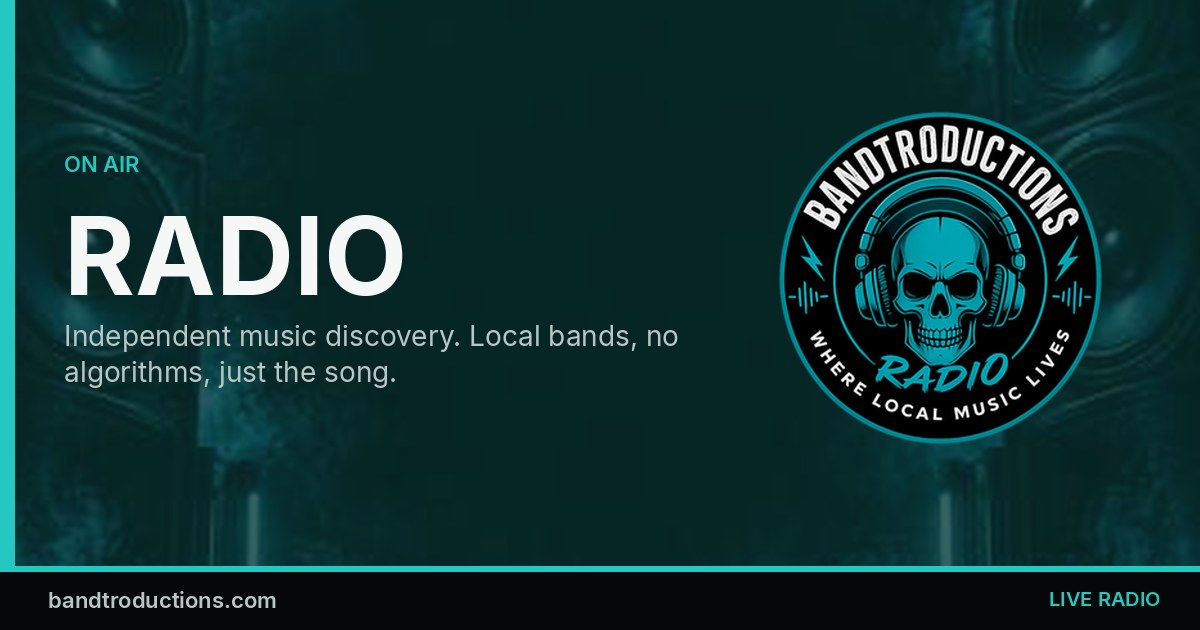
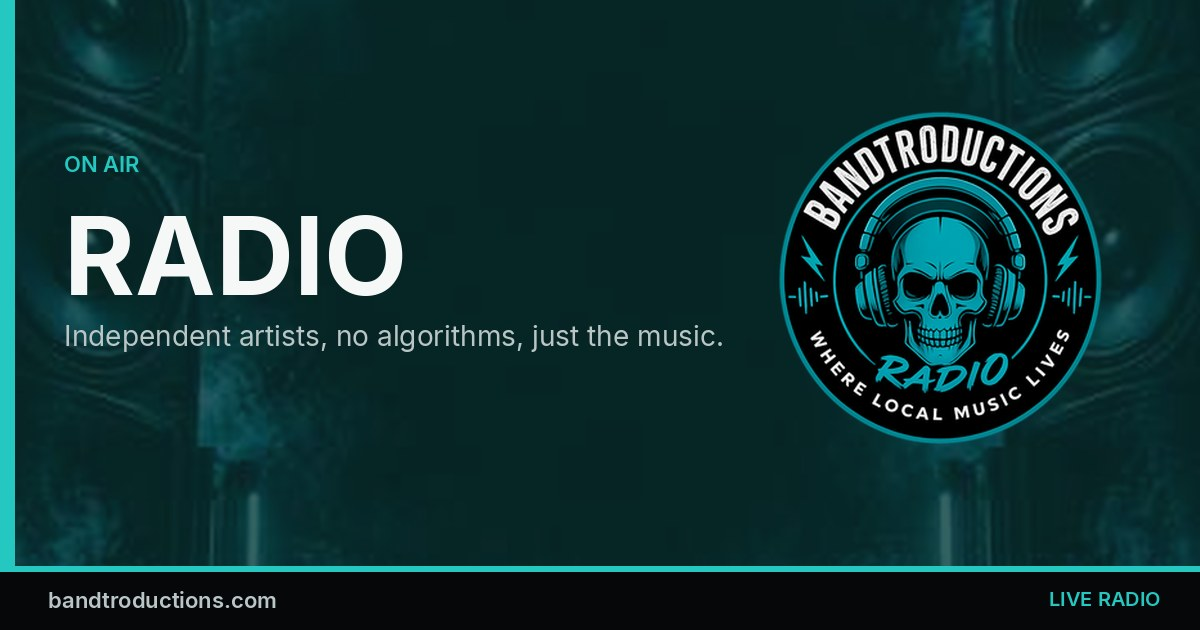
Reword the Radio share card and its social descriptions.
The card now says independent artists and the music, and the Radio Open Graph and Twitter descriptions no longer say local.

Changed region(s): [[0.0308, 0.5127, 0.5858, 0.6333]]

diff --git a/radio.html b/radio.html
@@ -11,7 +11,7 @@
 <link rel="canonical" href="https://bandtroductions.com/radio.html">
 
 <meta property="og:title" content="BANDtroductions Radio">
-<meta property="og:description" content="Independent music. Local bands. No algorithms. No bullshit. Just music.">
+<meta property="og:description" content="Independent music. Independent artists. No algorithms. Just music.">
 <meta property="og:type" content="website">
 <meta property="og:url" content="https://bandtroductions.com/radio.html">
 <meta property="og:site_name" content="BANDtroductions">
@@ -20,7 +20,7 @@
 <meta property="og:image:height" content="630">
 <meta name="twitter:card" content="summary_large_image">
 <meta name="twitter:title" content="BANDtroductions Radio | Independent Music Discovery">
-<meta name="twitter:description" content="Discover local and independent music on BANDtroductions Radio.">
+<meta name="twitter:description" content="Discover independent music worldwide on BANDtroductions Radio.">
 <meta name="twitter:image" content="https://bandtroductions.com/og/radio.jpg">
 
 <link rel="stylesheet" href="style.css?v=10">

diff --git a/og/render-share-cards.py b/og/render-share-cards.py
@@ -167,7 +167,7 @@ def card_radio():
         card,
         "ON AIR",
         "RADIO",
-        "Independent music discovery. Local bands, no algorithms, just the song.",
+        "Independent artists, no algorithms, just the music.",
         TEAL,
         x=64,
         y=150,
